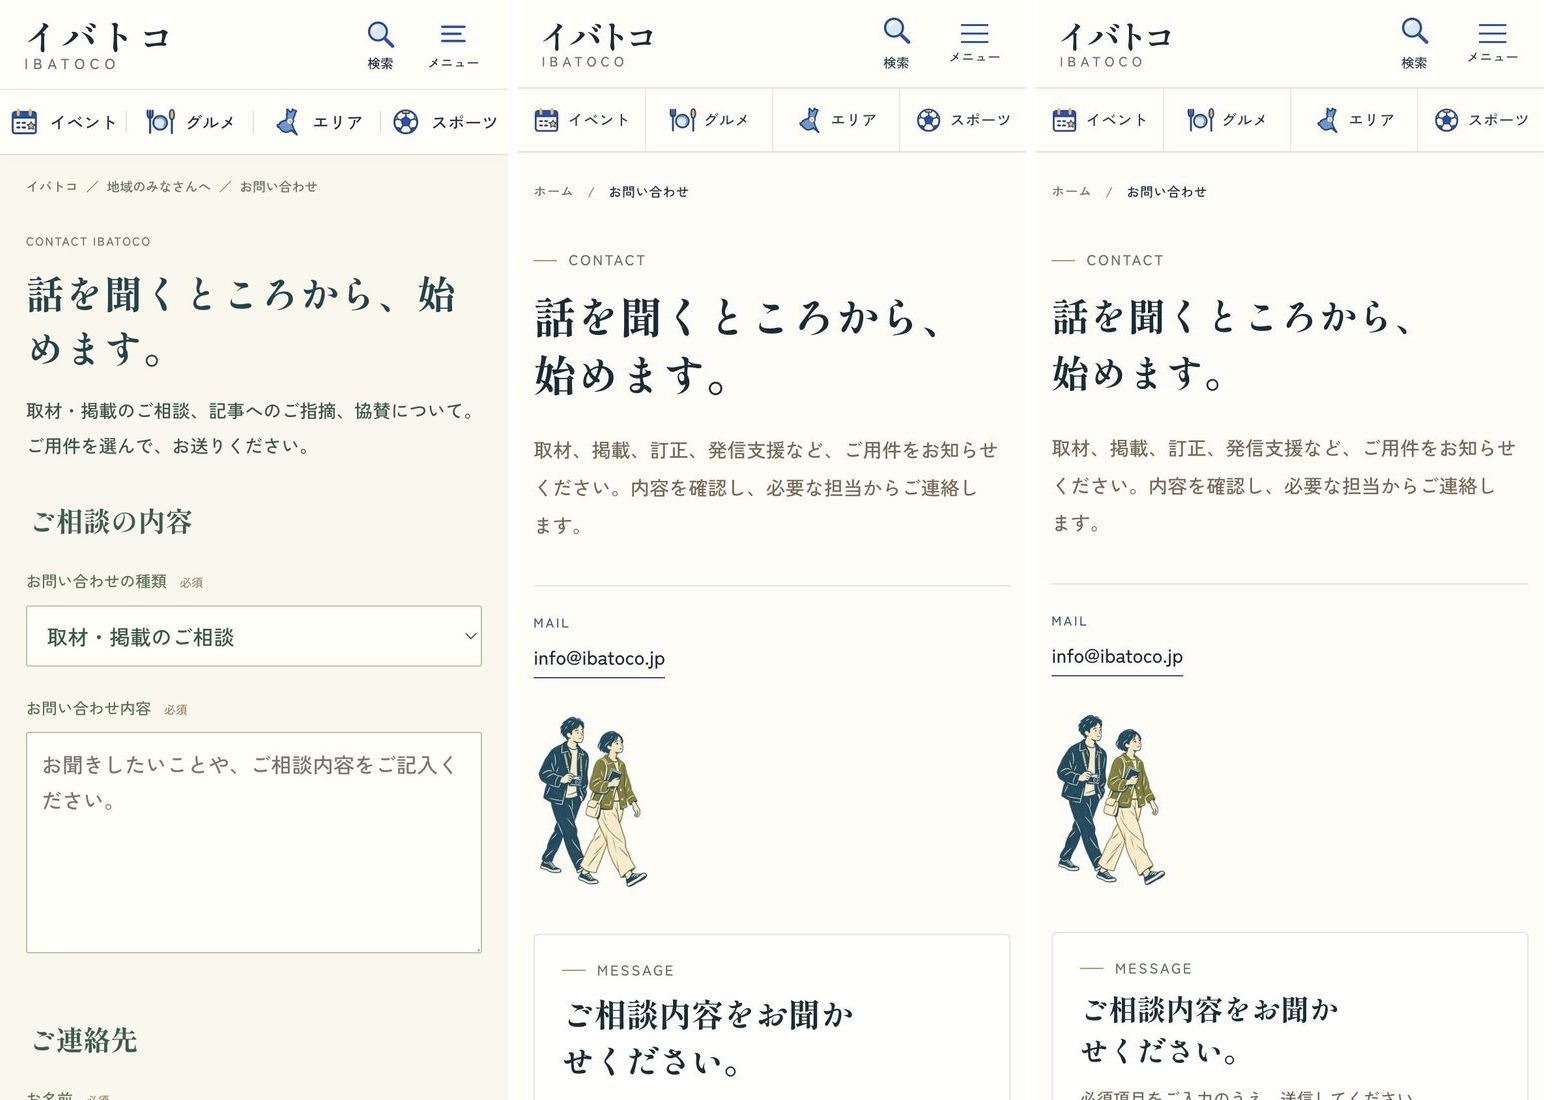
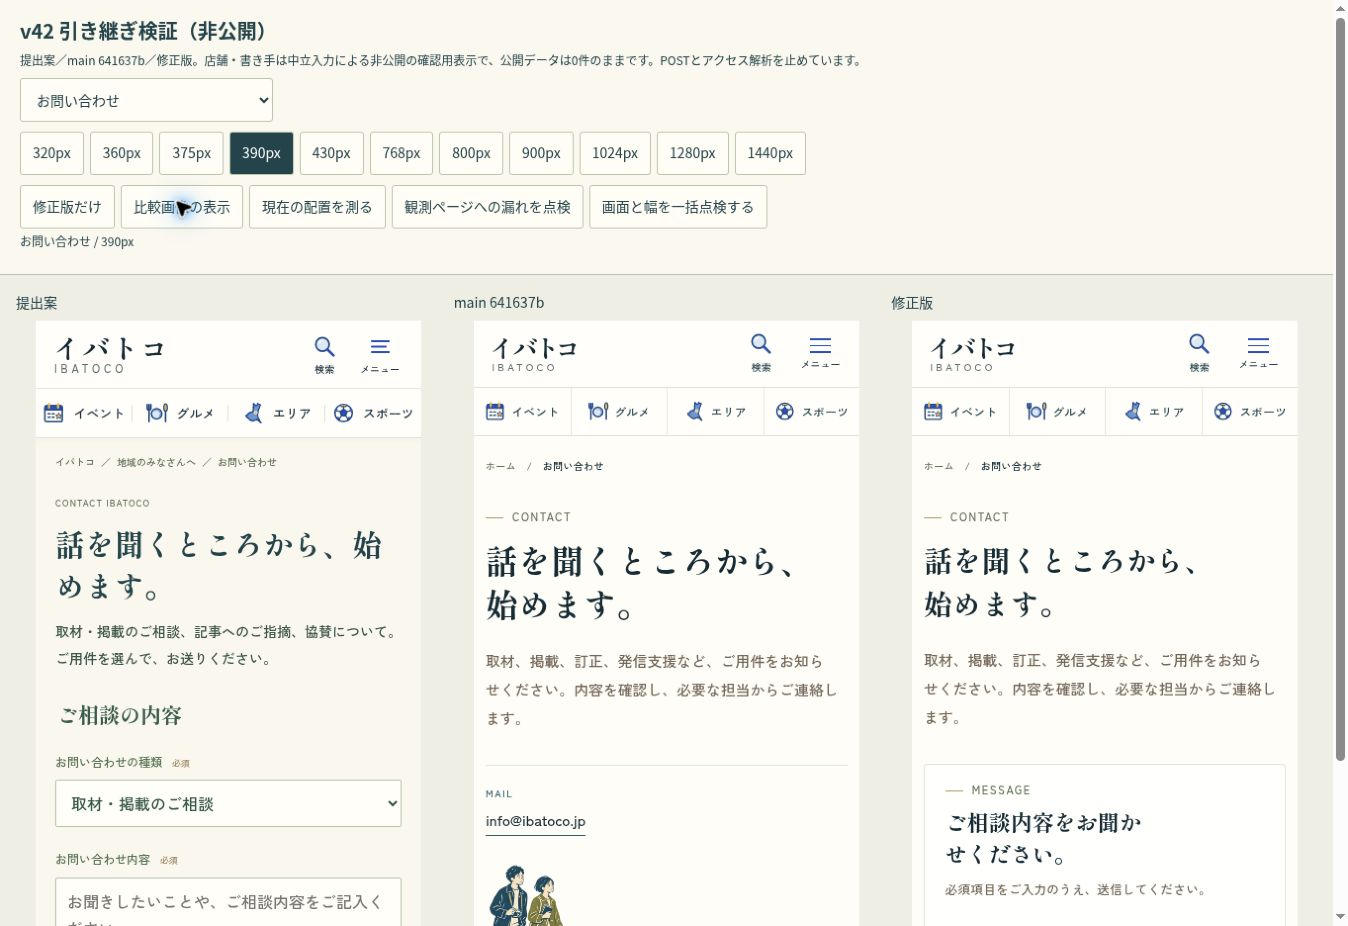
fix: keep contact form before email on mobile (#532 C)

diff --git a/src/styles/v42.css b/src/styles/v42.css
@@ -234,6 +234,11 @@ body.interior-site.interior-site :is(.policy-body, .pv-body) h2 {
 body.interior-site:is(.route-biz, .route-sponsor) main > section:not(.biz-cta) { padding-block: clamp(44px, 5vw, 72px); }
 body.interior-site:is(.route-biz, .route-sponsor) main > section:not(.biz-cta) > .bp-wrap { padding-block: 0; }
 /* お問い合わせ：見出しを全幅で上に置き、フォームを左、連絡先と挿絵を右に（PC） */
+body.interior-site.route-contact .contact-aside { grid-area: aside; min-width: 0; }
+@media (max-width: 900px) {
+  body.interior-site.route-contact .contact.bp-wrap { grid-template-columns: minmax(0, 1fr); grid-template-areas: "crumbs" "intro" "form" "aside"; }
+  body.interior-site.route-contact .contact-aside .contact-mail { margin-top: 0; }
+}
 @media (min-width: 901px) {
   body.interior-site.route-contact .contact.bp-wrap {
     grid-template-columns: minmax(0, 1fr) minmax(200px, 270px);
@@ -243,6 +248,7 @@ body.interior-site:is(.route-biz, .route-sponsor) main > section:not(.biz-cta) >
     column-gap: clamp(48px, 6vw, 96px);
   }
   body.interior-site.route-contact .contact-intro { display: contents; }
+  body.interior-site.route-contact .contact-aside { display: contents; }
   body.interior-site.route-contact .contact-intro > .bp-kicker { grid-area: kicker; margin-top: clamp(1.75rem, 3vw, 2.5rem); }
   body.interior-site.route-contact .contact-intro > h1 { grid-area: title; max-width: none; }
   body.interior-site.route-contact .contact-intro > h1 br { display: none; }
